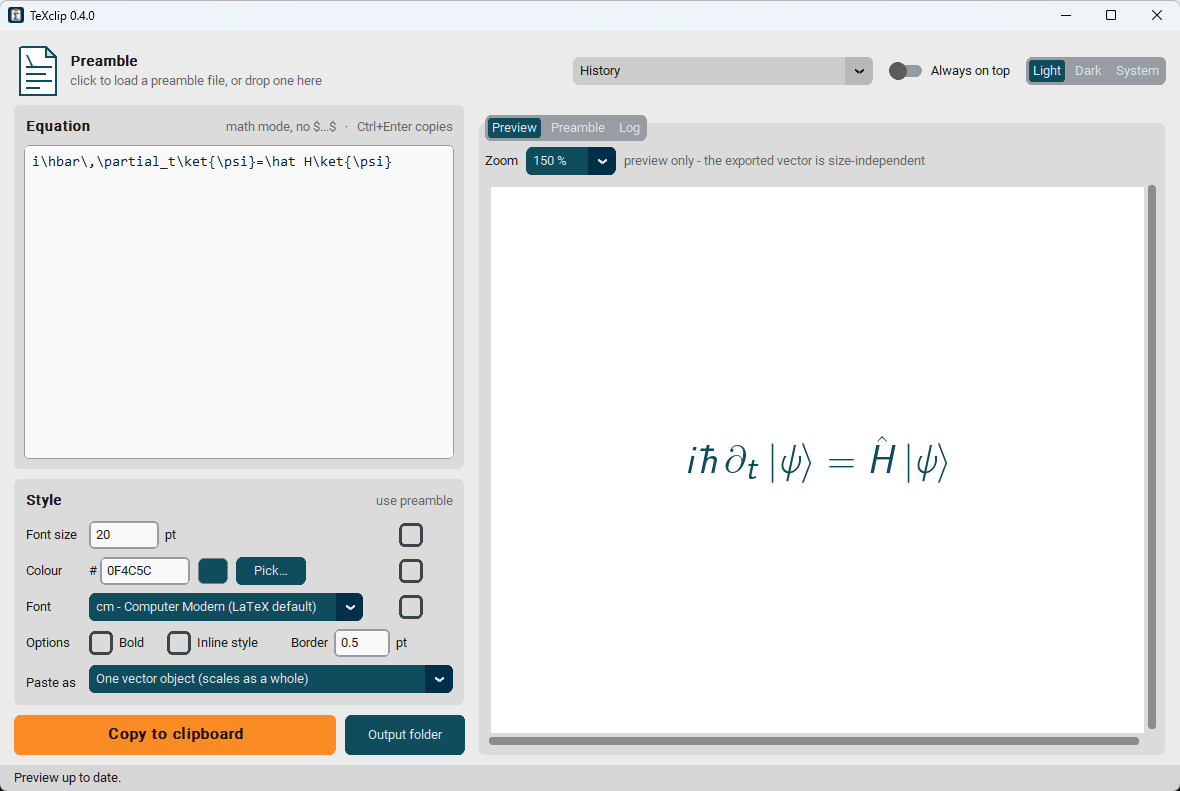
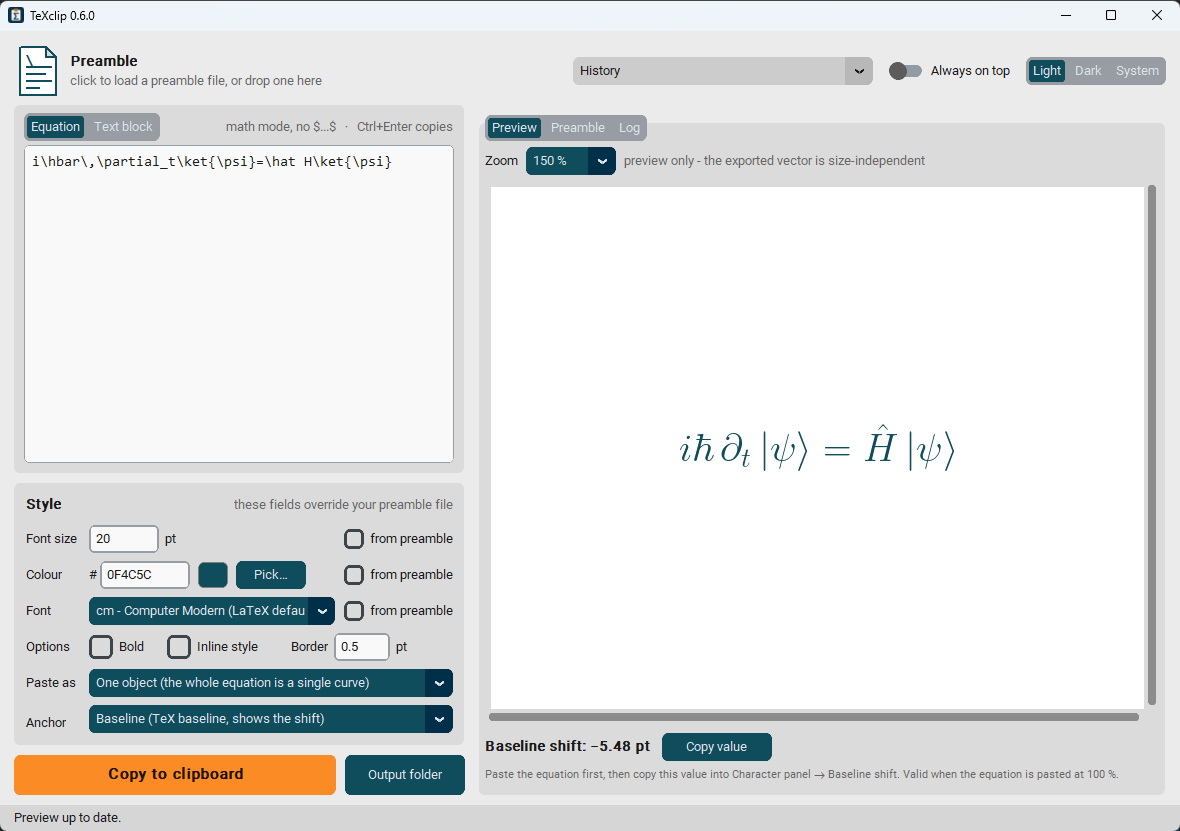
README: one light-mode screenshot of TeXclip 0.6

diff --git a/README.md b/README.md
@@ -9,9 +9,7 @@ your own TeX installation, converts every glyph to a path (so no Computer Modern
 on the other side), and puts the result on the clipboard. Press `Ctrl+V` in Affinity and you have
 a crisp, infinitely scalable equation. The SVG also works in Inkscape, Illustrator, Figma, etc.
 
-| Light | Dark |
-|---|---|
-| ![TeXclip window, light theme](docs/screenshot.png) | ![TeXclip window, dark theme](docs/screenshot_dark.png) |
+![TeXclip window](docs/screenshot.png)
 
 ## Features
 
